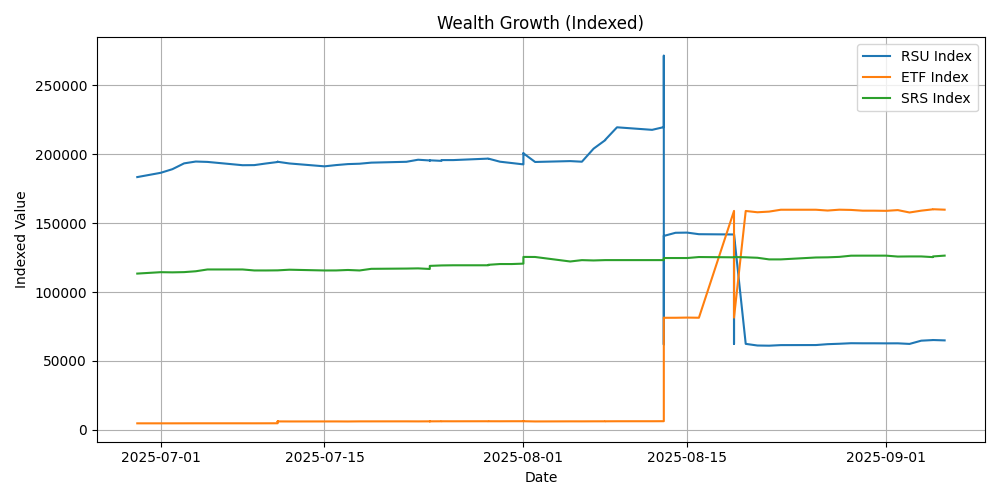
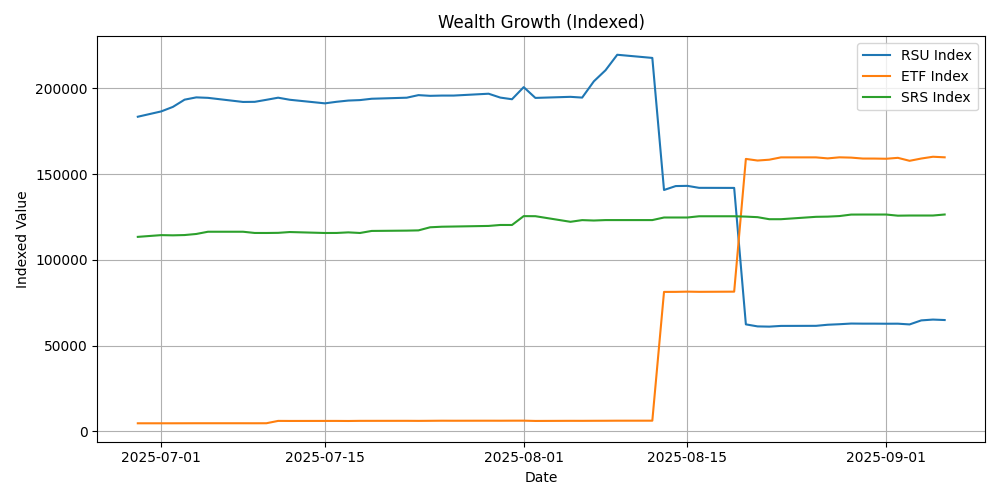
Weekly blog 2025-09-06 (Week 36)

diff --git a/src/content/post/2025/week-36-2025-09-06.md b/src/content/post/2025/week-36-2025-09-06.md
@@ -1,31 +1,35 @@
 ---
 title: "Week 36"
-description: "Automated weekly net worth and asset performance summary for Week 36 (2025-09-06)."
+description: "FIRE weekly recap for Week 36 (2025-09-06)."
 publishDate: "2025-09-06"
 heroImage: "src/content/post/image/2025/week-36.png"
 tags: [portfolio, weekly-report, automation]
 ---
 
-🗓 **Week of 2025-09-06**
+Week 36 closed on a steady note, with all portfolio streams adding gains and the overall plan staying ahead of the 2025 glidepath. The week saw modest progress across RSUs, ETFs, and SRS, lifting total value by just over 3,000 SGD.
 
-📈 Overall portfolio gained **0.86%** this week.  
-📆 *Year-to-Date*: `16.44%`  
-🗓 *Month-to-Date*: `0.86%`
+- RSU rose by SGD 2,155 (+3.43%), the largest contributor to weekly growth.
+- ETF added SGD 837 (+0.53%), maintaining steady momentum.
+- SRS inched up by SGD 17 (+0.01%), small but positive.
+- Total portfolio gained SGD 3,009 (+0.86%), keeping liquid wealth ahead of the 2025 glidepath by SGD 20,000 (5.05%).
+
+**Next week:** Monitor ETF flows closely, as the outsized YTD figure suggests a data indexing error. Otherwise, keep to the plan—no urgent actions needed.
+
+**Data check:** ETF YTD +161.27% looks implausible. Verify inputs or indexing to avoid overstating growth.
+
+> Glidepath tracker: **Actual vs Target** — SGD 350,000 vs SGD 330,000 (SGD 20,000, 5.05%, ahead)
 
 ---
 
-### 📊 Asset Performance
+## By the numbers
 
-- 🍎 RSU: `YTD -64.61%`, `MTD 3.43%`
-- 📈 ETF: `YTD 3279.6%`, `MTD 0.53%`
-- 🏦 SRS: `YTD 11.49%`, `MTD 0.01%`
+- **Week of 2025-09-06**
+- **Weekly gain:** 0.86%
+- **YTD:** 16.44%  •  **MTD:** 0.86%
 
----
-
-### 🧾 Portfolio Health (Indexed)
-
-- RSU Index: `64924.0`
-- ETF Index: `159780.9`
-- SRS Index: `126443.0`
+**Asset performance (YTD / MTD)**  
+- 🍎 RSU: -64.61% / 3.43%  
+- 📈 ETF: 161.27% / 0.53%  
+- 🏦 SRS: 11.49% / 0.01%
 
 ![Chart](src/content/post/image/2025/week-36.png)
